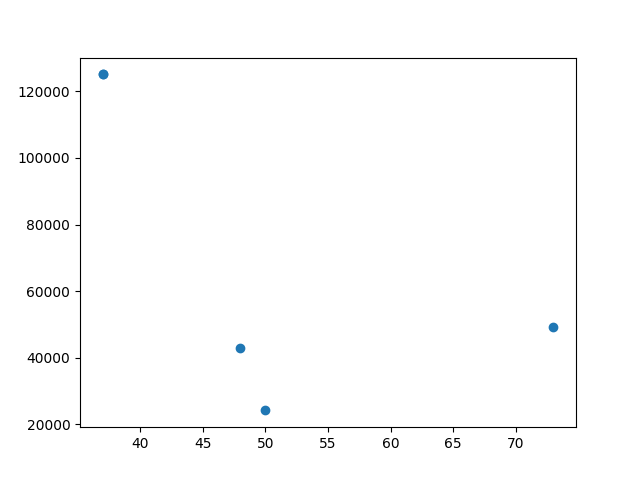
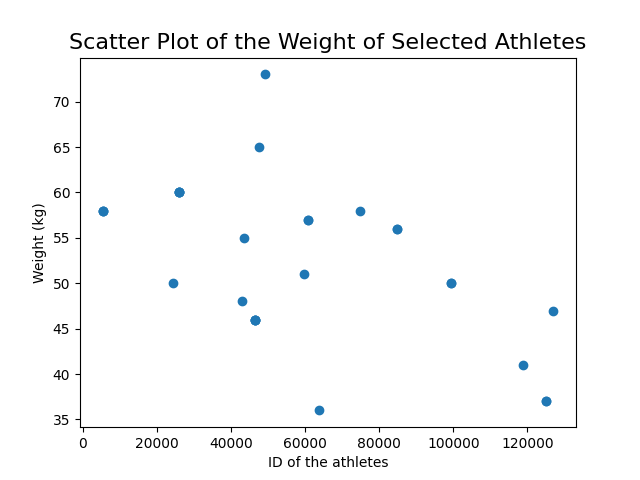
main

diff --git a/athelete.py b/athelete.py
@@ -39,10 +39,10 @@ def userOption():
 
 def filtering(df):
     option = userOption()
-    print("List of option:",option)
     new_df =df
     
     try:
+        #ask for further information for the filter
         for x in option:
             if x == 1:
                 sex = input("Enter F for Female, M for Male: ")
@@ -72,50 +72,44 @@ def filtering(df):
             
     except(ValueError,TypeError):
         new_df =[]
-
+    #return 0 when error occur
     if len(new_df) == 0:
         return len(new_df),df
+    #otherwise return length of the new data frame and the length of the data frame
     else:
         return len(new_df), new_df
     
 
 def plotting(n,df):
-    if 0< n <100:
-    
-        plt.scatter(df['Weight'],df['ID'],)
+
+    if 0< n <100:#if records found fewer thatn 100, plot scatter graph
+        plt.scatter(df['ID'],df['Weight'])
+        plt.xlabel('ID of Atheletes') 
+        plt.ylabel('Weight (kg)') 
+        plt.title(label='Scatter Plot of the Weight of Selected Atheletes',fontsize='16')
         plt.savefig("scatter.png")
         print("File scatter.png saved")
-    elif n>= 100:
+
+    elif n>= 100:#if records found equal to or more than 100, plot histogram
+
         plt.hist(df['Weight'],12)
+        plt.xlabel('Weight of the Atheletes (kg)') 
+        plt.ylabel('Number of records') 
+        plt.title(label = "Histogram of the weight of selected Atheletes", fontsize ='16')
         plt.savefig(" hist.png")
         print("File hist.png saved")
 
+    #If the number of rows is equal to 0, no plot is generated
 
 
+#The program body
 
-
-#read csv file and store it as dataframe
-df = pd.read_csv("athlete_events.csv")
+df = pd.read_csv("athlete_events.csv")#read csv file and store it as dataframe
 records, new_df =filtering(df)
 
-print("=======================================")
+print("\n=======================================")
 
 print(records ,"records")
 plotting(records,new_df)
 
 print("=======================================")
-
-   
-
-
-
-
-
-
-
-
-
-
-   
-
-

diff --git a/noisyPattern.py b/noisyPattern.py
@@ -63,7 +63,7 @@ class noisyPattern:
                     if remove == True:
                         image[i,j]=0
         self.image = self._removeBoundary(image)
-        plt.imsave('filtered.png', self.image, cmap=plt.cm.gray)
+        plt.imsave('noise_removed.png', self.image, cmap=plt.cm.gray)
         
         #if there is a white dot, replace its value by the value
         # of the majority of neighbouring pixels
@@ -87,6 +87,6 @@ class noisyPattern:
             for j in range(1,image_new.shape[1]-1):
                 image_new[i,j]=self._mean(i,j,image_new)
         image_new = self._removeBoundary(image_new)
-        plt.imsave('filter1.png',image_new, cmap=plt.cm.gray)
+        plt.imsave('pattern_filter1.png',image_new, cmap=plt.cm.gray)
 
 

diff --git a/processArray.py b/processArray.py
@@ -5,7 +5,8 @@ class processArray:
         self.size=2
         self.setSize(size)
         self.numbers=np.random.random([self.size])*100
-        self.numbers=self.numbers.round(0)
+        self.numbers=self.numbers.round(0).astype(int)
+        
         
     def __str__(self):
         return "Array of "+str(self.size)+" numbers"+"\n"+str(self.numbers)
@@ -41,7 +42,7 @@ class processArray:
                 tmp = data[i]
                 data[i] = data[smallest] # swap it with element of position i
                 data[smallest] = tmp
-            print("After the ",i+1,"st iteration:")
-            print(data)
+            print("After",i+1,"iterations:\n",data ,"\n")
+            
             
 

diff --git a/hybridsortTest.py b/hybridsortTest.py
@@ -1,5 +1,5 @@
 from processArray import processArray
-import numpy as np
+
 
 #a function to get random integer from key board
 def getNumfromKeyborad():
@@ -17,7 +17,7 @@ def getNumfromKeyborad():
             print("Number of elements should be interger")
     return n
 
-
+#main function
 def main():
     n=getNumfromKeyborad()
     array = processArray(n)
